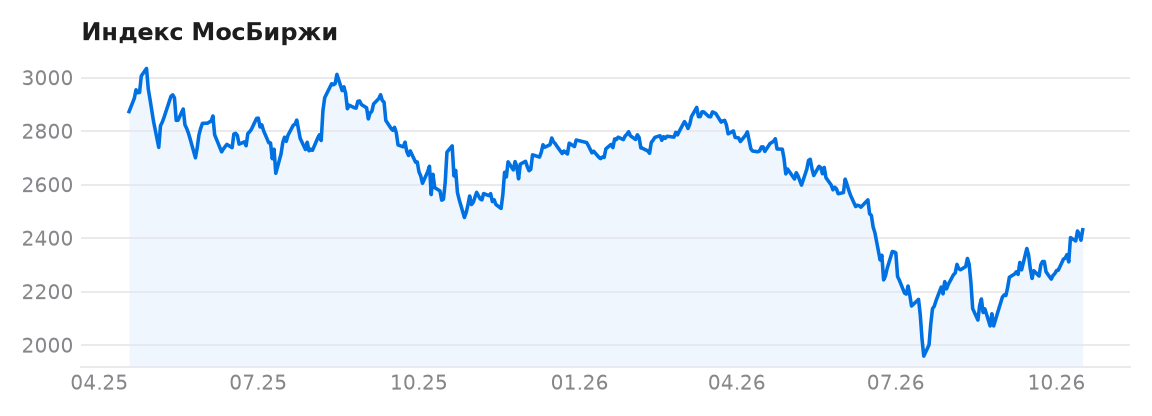
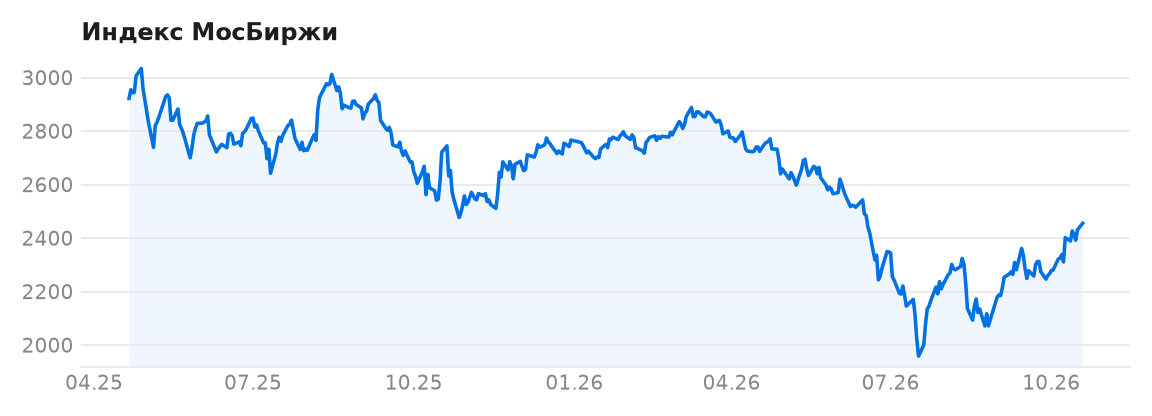
data: обновление 2026-10-20

diff --git a/README.md b/README.md
@@ -5,17 +5,17 @@
 Руками здесь ничего не обновляется: таблица и графики ниже собраны роботом.
 
 <!-- PULSE:START -->
-*Последние торги: 16.10.2026. Обновляется автоматически каждую ночь.*
+*Последние торги: 19.10.2026. Обновляется автоматически каждую ночь.*
 
 | | Значение | За день | За месяц | С начала года |
 |---|---:|---:|---:|---:|
-| Индекс МосБиржи | 2 431 | +1,6% | +6,4% | −12,1% |
-| Индекс гособлигаций RGBI | 111,66 | −0,0% | −0,8% | −5,4% |
-| Юань | 12,46 ₽ | −0,2% | −0,9% | +11,0% |
-| Сбербанк | 287,29 ₽ | +1,3% | +2,6% | −4,2% |
-| Т-Технологии | 269,56 ₽ | +0,9% | +5,4% | −17,8% |
-| ВТБ | 55,45 ₽ | +1,5% | +10,1% | −23,2% |
-| Мосбиржа | 155,50 ₽ | +1,3% | +3,2% | −10,3% |
+| Индекс МосБиржи | 2 455 | +1,0% | +7,8% | −11,3% |
+| Индекс гособлигаций RGBI | 111,70 | +0,0% | −1,0% | −5,4% |
+| Юань | 12,42 ₽ | −0,3% | −1,3% | +10,6% |
+| Сбербанк | 290,70 ₽ | +1,2% | +5,0% | −3,1% |
+| Т-Технологии | 272,20 ₽ | +1,0% | +7,4% | −17,0% |
+| ВТБ | 56,72 ₽ | +2,3% | +13,1% | −21,5% |
+| Мосбиржа | 156,50 ₽ | +0,6% | +5,8% | −9,7% |
 
 Цены акций скорректированы на корпоративные события: Т-Технологии — сплит 10:1 (17.04.2026); ВТБ — консолидация 1:5000 (15.07.2024).
 
